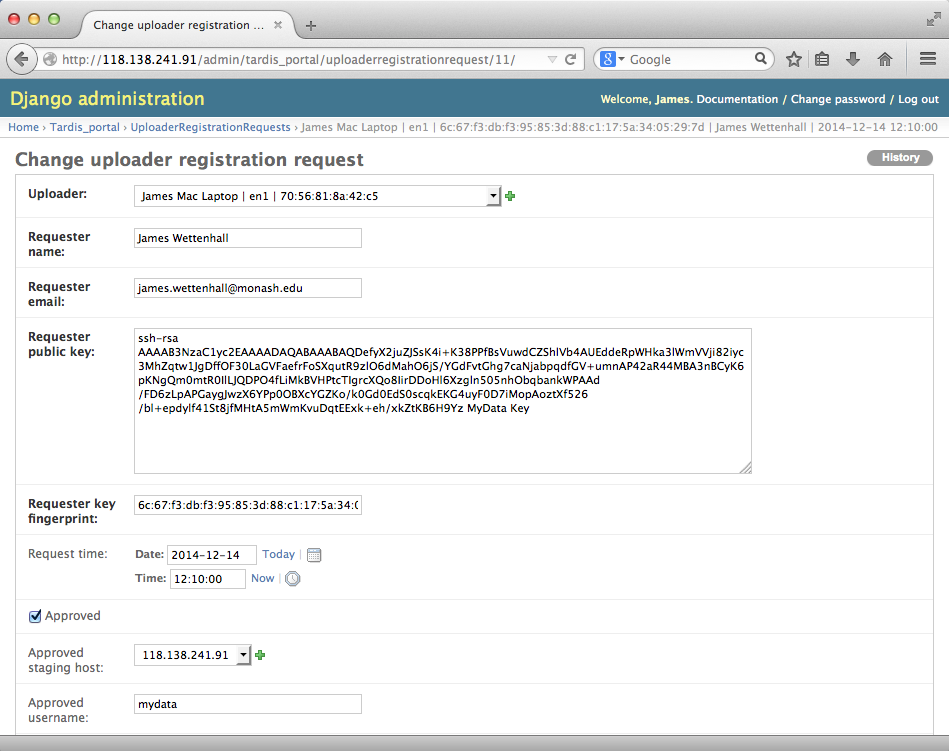
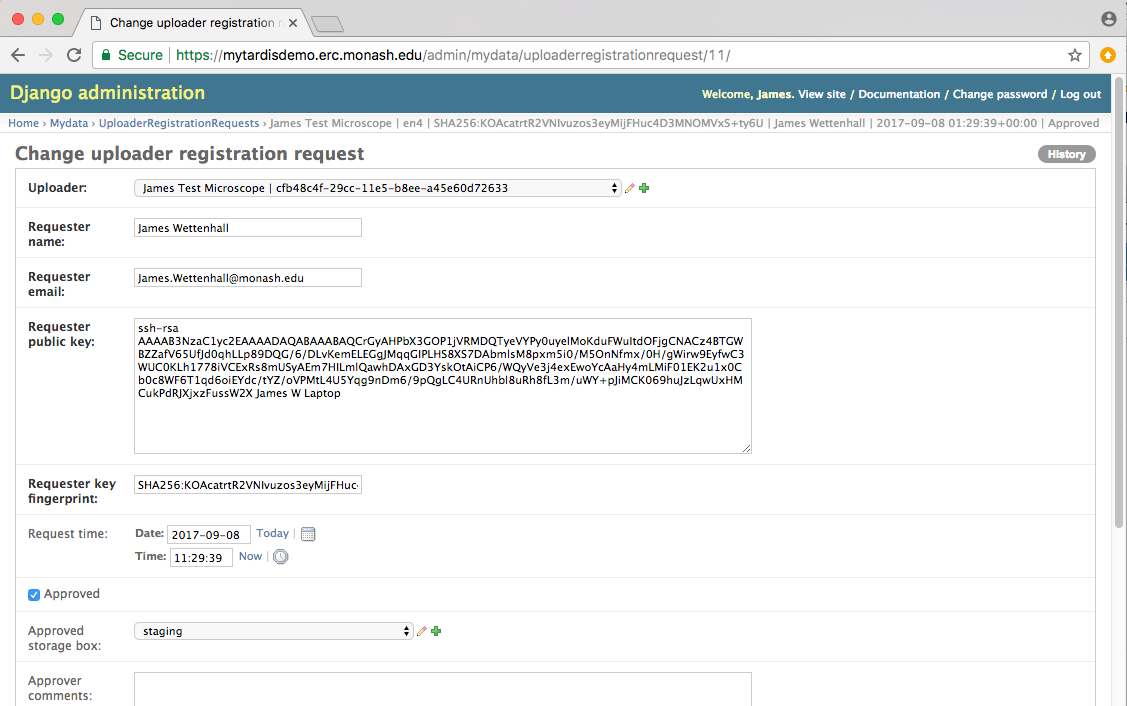
Updating docs to explain that you can configure a MyData instance to upload to a particular storage box.

diff --git a/docs/source/upload-methods.rst b/docs/source/upload-methods.rst
@@ -120,6 +120,16 @@ interface (after adding the public key to the appropriate
 
   .. image:: images/UploaderRegistrationApproval.png
 
+While approving the request, the MyTardis administrator can assign an
+appropriate storage box to the MyData uploader.  In this case, the "staging"
+storage box has been selected.  This storage box has attributes for
+"scp_username" and "scp_hostname" (and optionally "scp_port" which defaults to
+22).  It is the MyTardis administrator's responsibility to paste the public key
+into the appropriate authorized_keys file to allow MyData to upload without a
+password.
+
+  .. image:: images/StagingStorageBox.png
+
 Below is a sample of a MyTardis administrator's notes made
 (in the approval_comments field in MyTardis's UploadRegistrationRequest
 model) when approving one of these upload requests:
@@ -140,15 +150,18 @@ The MyData client will need to create subdirectories within the MyTardis
 staging area, and it will need to be able to write within those subdirectories.
 The "mytardis" web user should have read access to the staging data, but the
 "mydata" user should not have write access to the permanent storage location.
-One way to implement this is to set ownership of the staging directory to
-"mytardis:mytardis", use the "setgid" bit (chmod g+s) on the staging directory
-so that subdirectories inherit the "mytardis" group, and set "umask 0007" in
-the mydata user's ~/.bashrc.  It is important that the umask setting is
-applied when running remote commands without an interactive shell, e.g.
-"ssh -i ~/.ssh/MyData mydata@hostname umask".  Some ~/.bashrc
-files are configured to exit partway through if not running an interactive
-shell, so it may be necessary to insert the umask directive near the
-beginning of the ~/.basrhc file..
+
+To ensure that MyTardis's Celery processes (running under the "mytardis"
+account) have access to the uploaded files via group ownership, we can set
+the "setgid" bit (chmod g+s or chmod 2770) on the staging directory so that all
+files created within staging can inherit the "mytardis" group.
+
+Previous versions of MyData's documentation recommended using "umask" to ensure
+that files uploaded by MyData were group readable (so that MyTardis could
+verify them) and group writeable (so that MyTardis could move them to their
+permanent storage box).  However, from v0.7.0, MyData explicitly sets
+permissions on files it uploads (and on subddirectories it creates), instead of
+assuming that umask has been configured to do this automatically.
 
 N.B.: The test below was only possible because the MyData user submitting the
 request and the MyTardis administrator approving the request were the same
